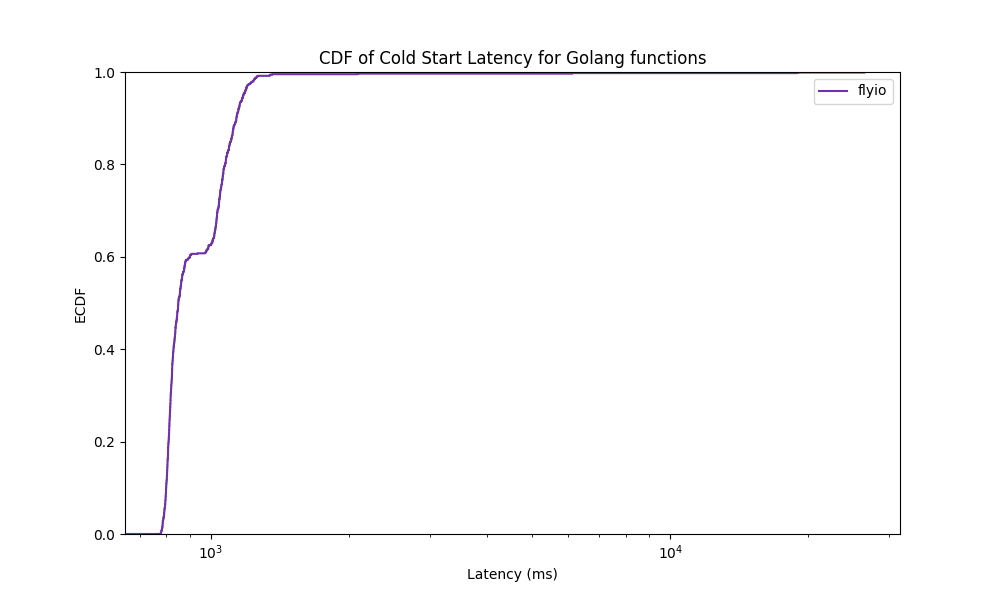
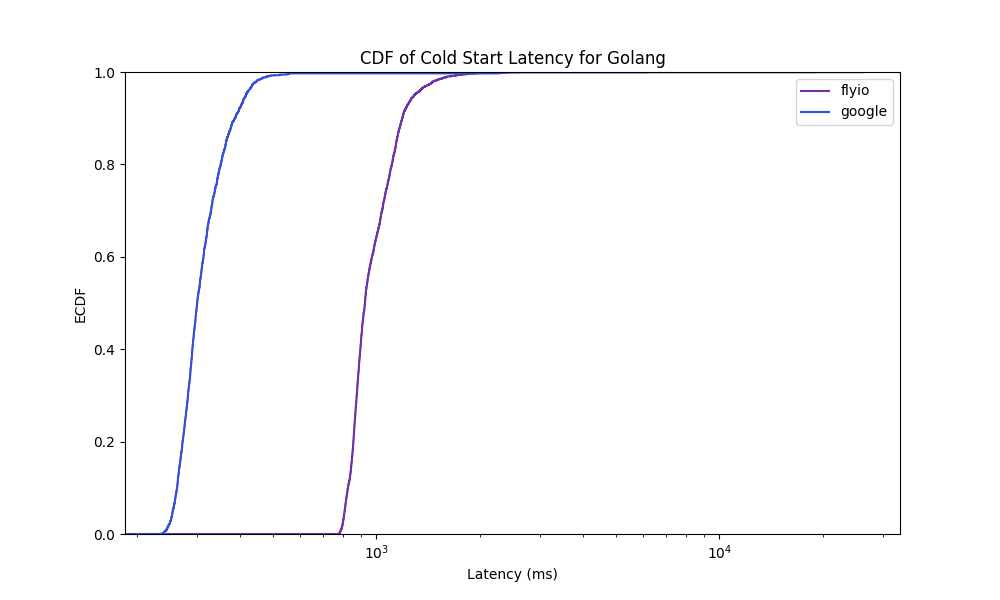
updated main graphs with new data

diff --git a/coldstart.py b/coldstart.py
@@ -19,8 +19,10 @@ def identify_runtime(row):
     elif row["provider"] == "google":
         if "hellonode" in row["url"]:
             return "Node.js"
-        else:
+        elif "hellopython" in row["url"]:
             return "Python"
+        else:
+            return "Golang"
     elif row["provider"] == "flyio":
         if "hellogo" in row["url"]:
             return "Golang"
@@ -43,9 +45,12 @@ data["runtime"] = data.apply(identify_runtime, axis=1)
 cold_data = data[data["isCold"] == 1]
 
 
-def plot_boxplot(cold_data):
+def plot_boxplot(cold_data, includeOutliers=True):
+    if not includeOutliers:
+        cold_data = remove_outliers(cold_data, "waiting_ms", THRESHOLD)
+
     plt.figure(figsize=(12, 8))
-    sns.boxplot(
+    sns.violinplot(
         x="runtime",
         y="waiting_ms",
         hue="provider",
@@ -55,7 +60,8 @@ def plot_boxplot(cold_data):
     plt.title("Latency (waiting_ms) by Runtime and Provider")
     plt.xlabel("Runtime")
     plt.ylabel("Latency (ms)")
-    plt.yscale("log")
+    # plt.yscale("log")
+    plt.savefig(f"coldstarts-boxplot-outliers{includeOutliers}.png")
     plt.show()
 
 
@@ -71,6 +77,7 @@ def plot_boxplot_diff(cold_data):
         "Python - aws": "#dbd642",
         "Node.js - google": "#374fd4",
         "Python - google": "#374fd4",
+        "Golang - google": "#374fd4",
         "Node.js - flyio": "#6f32a8",
         "Golang - flyio": "#6f32a8",
         "Node.js - cloudflare": "orange",
@@ -82,9 +89,9 @@ def plot_boxplot_diff(cold_data):
     plt.title("Cold Start Latency  by Runtime and Provider")
     plt.xlabel("Runtime - Provider")
     plt.ylabel("Latency (ms)")
-    plt.yscale("log")
+    # plt.yscale("log")
     plt.xticks(rotation=45, ha="right")  # Rotate x-axis labels for better readability
-    plt.savefig("coldstarts-boxplot.png")
+    # plt.savefig("coldstarts-boxplot.png")
     plt.show()
 
 
@@ -98,7 +105,7 @@ def plot_cdf(cold_data):
 
     for runtime in runtimes:
         plt.figure(figsize=(10, 6))
-        plt.title(f"CDF of Cold Start Latency for {runtime} functions")
+        plt.title(f"CDF of Cold Start Latency for {runtime}")
 
         for provider in providers:
             subset = cold_data[
@@ -121,9 +128,43 @@ def plot_cdf(cold_data):
         plt.show()
 
 
-plot_boxplot_diff(cold_data)
+def plot_joy(data, includeOutliers):
 
-plot_boxplot(cold_data)
+    if not includeOutliers:
+        data = remove_outliers(data, "waiting_ms", THRESHOLD)
+
+    sns.set_theme(style="whitegrid")
+    g = sns.FacetGrid(
+        data,
+        col="provider",
+        hue="runtime",
+        col_wrap=2,
+        aspect=2,
+        height=3,
+        palette="tab10",
+        margin_titles=False,
+    )
+    g.map(
+        sns.kdeplot,
+        "waiting_ms",
+        fill=True,
+        bw_adjust=0.2,
+        common_norm=False,
+        alpha=0.5,
+    )
+    g.set_axis_labels("Waiting Time (ms)", "")
+
+    plt.xlim(0, 1500)
+    # plt.savefig(f"coldstart-joyplot-outliers{includeOutliers}.png")
+    plt.show()
+
+
+plot_joy(cold_data, includeOutliers=False)
+"""
+plot_boxplot(cold_data, includeOutliers=False)
+plot_boxplot(cold_data, includeOutliers=True)
 plot_cdf(cold_data)
+"""
+
 
 # la de hellonode coldstart de aws es la q empieza con o

diff --git a/geodis.py b/geodis.py
@@ -151,11 +151,72 @@ def plot_ecdf(data, includeColdStarts, includeOutliers):
     plt.show()
 
 
-plot_ecdf(combinedData, False, True)
+def plot_combined_ecdf(data, includeColdStarts, includeOutliers):
+    if not includeColdStarts:
+        data = data[data["isCold"] == 0]
+
+    if not includeOutliers:
+        data = remove_outliers(data, "waiting_ms", THRESHOLD)
+
+    g = sns.FacetGrid(
+        data,
+        col="provider",
+        hue="load_zone",
+        col_wrap=2,
+        height=4,
+        aspect=1.5,
+        sharex=True,
+    )
+
+    # Map ECDF plots to the grid
+    g.map(sns.ecdfplot, "waiting_ms", complementary=False)
+
+    # plt.title(f"ECDF of Latency (ms) | outliers: {includeOutliers} | cold starts: {includeColdStarts}")
+
+    plt.xlabel("Latency (ms)")
+    plt.ylabel("ECDF")
+    plt.legend()
+    plt.show()
+
+
+def plot_joy(data, includeColdStarts, includeOutliers):
+    if not includeColdStarts:
+        data = data[data["isCold"] == 0]
+
+    if not includeOutliers:
+        data = remove_outliers(data, "waiting_ms", THRESHOLD)
+
+    sns.set_theme(style="whitegrid")
+    g = sns.FacetGrid(
+        data,
+        col="provider",
+        hue="load_zone",
+        col_wrap=2,
+        aspect=2,
+        height=3,
+        palette="tab10",
+        margin_titles=False,
+    )
+    g.map(sns.kdeplot, "waiting_ms", fill=True)
+    g.set_axis_labels("Waiting Time (ms)", "")
+
+    plt.xlim(0, 600)
+    plt.savefig(
+        f"geodis-joyplot-coldstarts{includeColdStarts}-outliers{includeOutliers}.png"
+    )
+    plt.show()
+
+
+# plot_ecdf(combinedData, False, True)
 # GeoDis 1 Excluding outliers
-plot_geodis_data(data, False, True, "bar", 1)
-plot_geodis_data(data, False, True, "box", 1)
+# plot_geodis_data(data, False, True, "bar", 1)
+# plot_geodis_data(data, False, True, "box", 1)
 
 # GeoDis 2 Excluding outliers
-plot_geodis_data(data2, False, True, "bar", 2)
-plot_geodis_data(data2, False, True, "box", 2)
+# plot_geodis_data(data2, False, True, "bar", 2)
+# plot_geodis_data(data2, False, True, "box", 2)
+
+# plot_combined_ecdf(combinedData, False, True)
+plot_joy(combinedData, False, True)
+plot_joy(combinedData, False, False)
+plot_joy(combinedData, True, True)

diff --git a/cputest2.py b/cputest2.py
@@ -76,6 +76,18 @@ def plot_fibDuration(df, includeOutliers=True):
     plt.show()
 
 
+def violinplot_fibDuration(df, includeOutliers=True):
+    if not includeOutliers:
+        df = remove_outliers(df, "fibDuration", THRESHOLD)
+    df_success = df[df["status"] == 200]
+    # Plotting fibDuration for successful requests across different providers and values of n
+    plt.figure(figsize=(12, 6))
+    sns.barplot(x="n", y="fibDuration", hue="provider", data=df_success)
+    plt.title("Fib Duration by Provider and n (Status == 200)")
+    plt.savefig(f"cputest_fibduration_outliers{includeOutliers}.png")
+    plt.show()
+
+
 df = get_data("CpuTest")
 df = df[df["status"] != 500]
 df = df[df["n"] != 38]
@@ -84,8 +96,11 @@ df = df[df["isCold"] == 0]
 # plot_cpu_test_data(df)
 #
 # plot_fibDurationVsWaitingTime(df)
-plot_status(df, includeOutliers=False)
+""" plot_status(df, includeOutliers=False)
 plot_status(df, includeOutliers=True)
 
 plot_fibDuration(df, includeOutliers=False)
-plot_fibDuration(df, includeOutliers=True)
+plot_fibDuration(df, includeOutliers=True) """
+
+violinplot_fibDuration(df, includeOutliers=False)
+violinplot_fibDuration(df, includeOutliers=True)

diff --git a/rampup.py b/rampup.py
@@ -47,7 +47,7 @@ def rampup(rampup_data, includeColdStarts, includeOutliers, quantile=50):
         y="waiting_ms",
         hue="provider",
         data=grouped_data,
-        palette="tab10",
+        palette=PALETTE,
         marker="o",
     )
 
